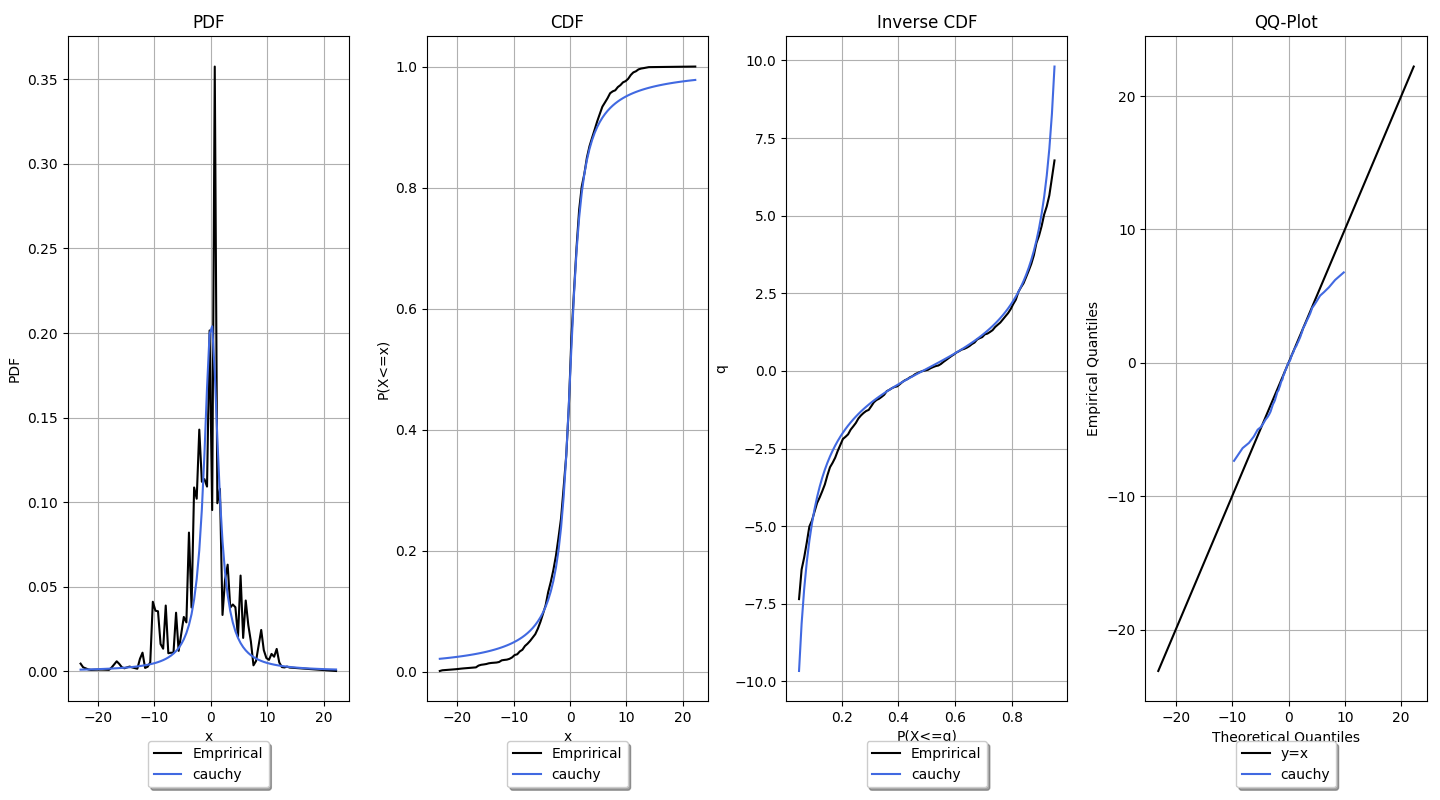
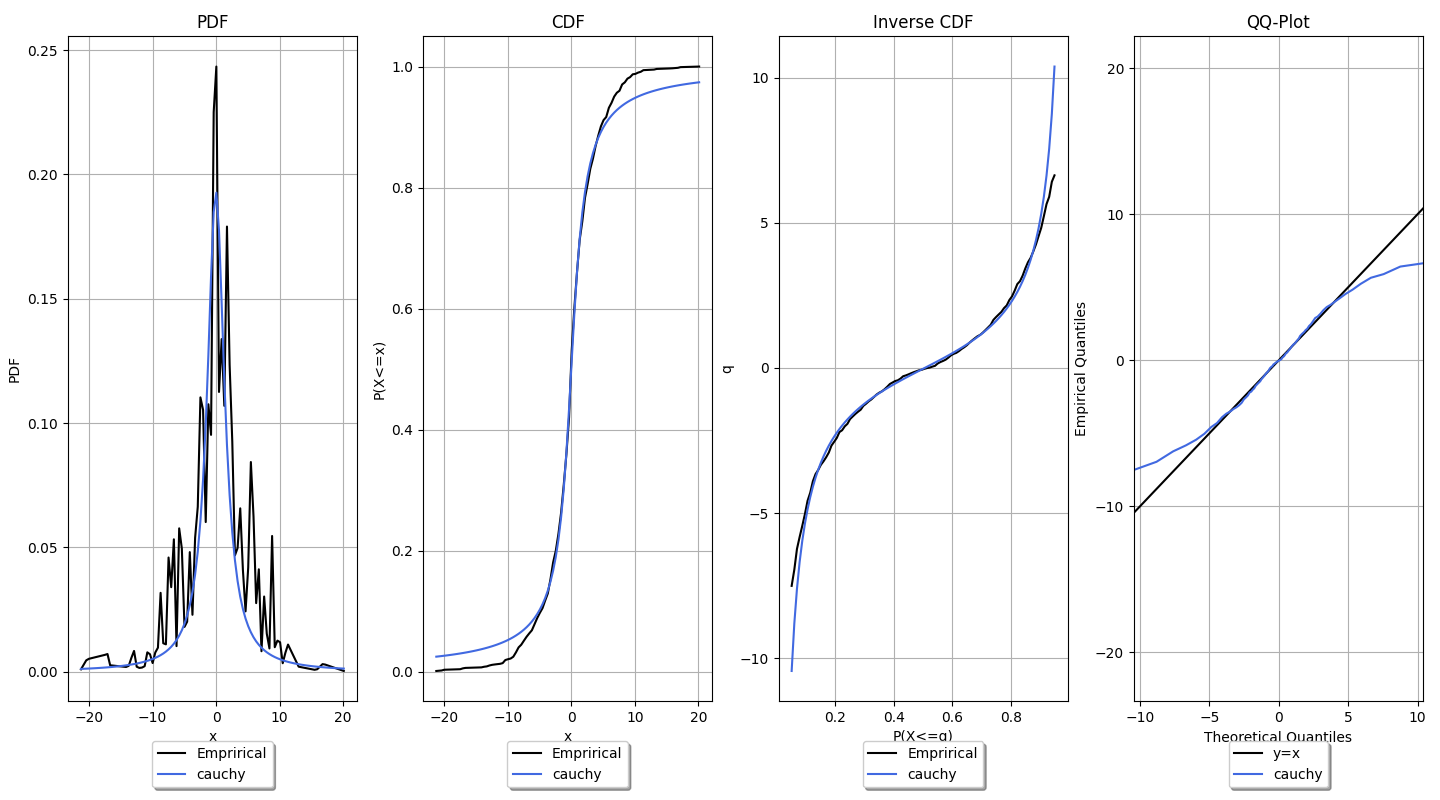
adding to docs

diff --git a/sklarpy/univariate/_fitted_dists.py b/sklarpy/univariate/_fitted_dists.py
@@ -446,8 +446,10 @@ class FittedUnivariateBase(Savable):
                        alpha=empirical_alpha, label=empirical_label)
             ax[3].plot(xrange, xrange, color=qqplot_yx_color,
                        alpha=qqplot_yx_alpha, label='y=x')
-            ax[3].plot(self.ppf(qrange), empirical_ppf_values, color=color,
+            ppf_values = self.ppf(qrange)
+            ax[3].plot(ppf_values, empirical_ppf_values, color=color,
                        alpha=alpha, label=self.name)
+            ax[3].set_xlim([ppf_values.min(), ppf_values.max()])
 
         # plotting distribution
         ax[0].plot(xrange, self.pdf(xrange), color=color,
